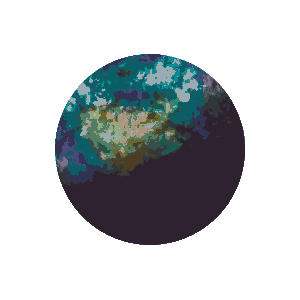
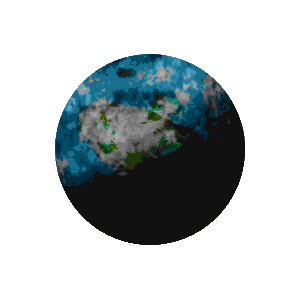
new artstyle, i suppose 2

Changed region(s): [[0.18, 0.18, 0.84, 0.84]]

diff --git a/src/LevelState.cpp b/src/LevelState.cpp
@@ -32,11 +32,11 @@ void LevelState::onInit() {
 
     camera = {{playArea.width / 2, playArea.height / 2}, {0, 0}, 0, 1};
 
-    auto &player = addEntity({0, playArea.height / 2, 32, 32}, "res/Ship_1bright.png",
+    auto &player = addEntity({0, 0, 32, 32}, "res/playerShipStatic.png",
                              std::make_shared<LinearMovement>(), 220, {0, 0});
 
     player.trans.x = 0 - player.trans.width/2;
-    player.trans.y = playArea.height/2 ;
+    player.trans.y = playArea.height/2 - player.trans.height - 20 ;
 
     player.emittingStrategy = std::make_shared<PlayerEmittingStrategy>();
 
@@ -86,9 +86,9 @@ void LevelState::onUpdate() {
         player.velocity.y = y * speed;
 
         scrollPos += delta;
-
-
     }
+
+
 
 
 
@@ -107,6 +107,18 @@ void LevelState::onUpdate() {
         }
     }
 
+    if (playerIndex!=-1) {
+        auto& player = entities[playerIndex];
+
+
+        if ((player.trans.x + player.trans.width)> playArea.width/2 + playerClampAllowance)
+            player.trans.x = (playArea.width/2+playerClampAllowance) - player.trans.width;
+        if (player.trans.x < -playArea.width/2 -playerClampAllowance) player.trans.x = -playArea.width/2 - playerClampAllowance;
+        if (player.trans.y<-playArea.height/2-playerClampAllowance) player.trans.y = -playArea.height/2 - playerClampAllowance;
+        if ((player.trans.y + player.trans.height)> playArea.height/2 + playerClampAllowance)
+            player.trans.y = (playArea.height/2 + playerClampAllowance) - player.trans.height;
+    }
+
     for (unsigned int i = entities.size()-1; i > 0; i--) {
         if (entities[i].flaggedForRemoval) {
             entities[i] = std::move(entities.back());
@@ -121,7 +133,11 @@ void LevelState::onRender() {
     BeginTextureMode(backgroundRenderTexture);
     ClearBackground(SPACE_BLACK);
     BeginMode2D(camera);
-    gfx.drawTexture("res/planet15.png", {-50, static_cast<float>((-100 + (scrollPos * 0.25))), 128*2, 128*2});
+
+    gfx.drawTexture("res/parallax-background.png", {-playArea.width/2, -playArea.height/2, playArea.width, playArea.height});
+    gfx.drawTexture("res/parallaxstars.png", {-playArea.width/2, (float)((-playArea.height/2) + (scrollPos * 0.1)), playArea.width, playArea.height});
+
+    gfx.drawTexture("res/planet15.png", {-50, static_cast<float>((-200 + (scrollPos * 0.5))), 128*2, 128*2});
 
     EndMode2D();
     EndTextureMode();
@@ -163,8 +179,10 @@ void LevelState::onRender() {
     ClearBackground(BLANK);
     BeginMode2D(camera);
         for (const auto &entity: entities) {
-
-            gfx.drawTexture(entity.textureName, entity.trans);
+            auto entityTransform = entity.trans;
+            entityTransform.x = floor(entity.trans.x);
+            entityTransform.y = floor(entity.trans.y);
+            gfx.drawTexture(entity.textureName, entityTransform);
         }
 
     EndMode2D();
@@ -191,9 +209,9 @@ void LevelState::onRender() {
                        0, 0, static_cast<float>(backgroundRenderTexture.texture.width*2),
                        static_cast<float>(backgroundRenderTexture.texture.height*2)
                    },
-                   {0,0}, 0, {150,150,150, 255});
+                   {0,0}, 0, {250,250,250, 255});
 
-    BeginBlendMode(BLEND_ADDITIVE);
+    //BeginBlendMode(BLEND_ADDITIVE);
     DrawTexturePro(lightRenderTexture.texture, {
                        0, 0,
                        static_cast<float>(backgroundRenderTexture.texture.width),
@@ -203,9 +221,9 @@ void LevelState::onRender() {
                        0, 0, static_cast<float>(backgroundRenderTexture.texture.width*2),
                        static_cast<float>(backgroundRenderTexture.texture.height*2)
                    },
-                   {0,0}, 0, WHITE);
-    EndBlendMode();
-
+                   {0,0}, 0, {255, 255, 255, 100});
+    //EndBlendMode();
+    /*
     DrawTexturePro(entityRenderTexture.texture, {
                     -2, -2,
                     static_cast<float>(backgroundRenderTexture.texture.width),
@@ -216,7 +234,7 @@ void LevelState::onRender() {
                     static_cast<float>(backgroundRenderTexture.texture.height*2)
                 },
                 {0,0}, 0, BLACK);
-
+    */
     DrawTexturePro(entityRenderTexture.texture, {
                        0, 0,
                        static_cast<float>(backgroundRenderTexture.texture.width),
@@ -228,24 +246,11 @@ void LevelState::onRender() {
                    },
                    {0,0}, 0, WHITE);
 
-    BeginShaderMode(gfx.getShader("bloom"));
-    BeginBlendMode(BLEND_ADDITIVE);
-    DrawTexturePro(bloomyRenderTexture.texture, {
-                       0, 0,
-                       static_cast<float>(backgroundRenderTexture.texture.width),
-                       -static_cast<float>(backgroundRenderTexture.texture.height)
-                   },
-                   {
-                       0, 0, static_cast<float>(backgroundRenderTexture.texture.width*2),
-                       static_cast<float>(backgroundRenderTexture.texture.height*2)
-                   },
-                   {0,0}, 0, WHITE);
-    EndBlendMode();
-    EndShaderMode();
-    if (loggerTimer >= loggerCooldown) {
+
+    /*if (loggerTimer >= loggerCooldown) {
         std::cout << "\033[2J";
         std::cout << "culling area: " << cullingArea.x << " " << cullingArea.y << " " << cullingArea.width <<" " << cullingArea.height <<  "\n";
         std::cout << "entity count : " << entities.size() << std::endl;
         loggerTimer = 0;
-    }
+    }*/
 }

diff --git a/src/EmittingStrategies.cpp b/src/EmittingStrategies.cpp
@@ -31,10 +31,10 @@ PlayerEmittingStrategy::PlayerEmittingStrategy() {
 void PlayerEmittingStrategy::emitImp(const Entity &entity, float delta)
 {
     auto& state = entity.parent;
-    state.addEntity({entity.trans.x + (3), entity.trans.y, 8, 8}, "res/particle_1.png",
+    state.addEntity({entity.trans.x + (3), entity.trans.y - 12, 6, 12}, "res/particle_2.png",
         std::make_shared<LinearMovement>(), 100, {0, -500}).bloomy=true;
 
-    state.addEntity({entity.trans.x + entity.trans.width - (8) - (3), entity.trans.y, 8 ,8}, "res/particle_1.png",
+    state.addEntity({entity.trans.x + entity.trans.width - (4) - (3), entity.trans.y - 12, 6,12}, "res/particle_2.png",
         std::make_shared<LinearMovement>(), 100, {0, -500}).bloomy=true;
 
 

diff --git a/src/Graphics.cpp b/src/Graphics.cpp
@@ -7,7 +7,10 @@
 #include <iostream>
 
 void Graphics::loadTexture(const std::string &name) {
-    textures[name] = LoadTexture(name.c_str());
+    if (!textures.contains(name)) {
+        textures[name] = LoadTexture(name.c_str());
+    }
+
 }
 
 Texture2D &Graphics::getTexture(const std::string &name) {

diff --git a/src/MovementStrategies.cpp b/src/MovementStrategies.cpp
@@ -15,6 +15,7 @@ void LinearMovement::update(Entity& entity, const float deltaTime)
 }
 
 
+
 SineMovement::SineMovement(const float amp, const float freq, const float phaseShift, Vector2 waveAxis)
     : waveAxis(waveAxis), amplitude(amp), frequency(freq), phase(phaseShift)
 {

diff --git a/src/MovementStrategies.h b/src/MovementStrategies.h
@@ -22,9 +22,6 @@ class LinearMovement final : public IMovementStrategy
     void update(Entity& entity, float deltaTime) override;
 };
 
-
-
-
 class SineMovement final : public IMovementStrategy
 {
    public:

diff --git a/src/LevelState.h b/src/LevelState.h
@@ -49,4 +49,6 @@ private:
 
     const float loggerCooldown = 0.5f;
     float loggerTimer = 0;
+
+    const float playerClampAllowance = 10;
 };

diff --git a/src/Entity.h b/src/Entity.h
@@ -15,6 +15,8 @@ enum class EntityType {
     player = 0, bullet = 1, enemy = 2
 };
 
+
+
 struct Entity
 {
     LevelState& parent;

diff --git a/src/colourDefs.h b/src/colourDefs.h
@@ -7,4 +7,4 @@
 
 
 
-inline Color SPACE_BLACK{46, 34, 47, 255};
+inline Color SPACE_BLACK{17, 17, 17, 255};
